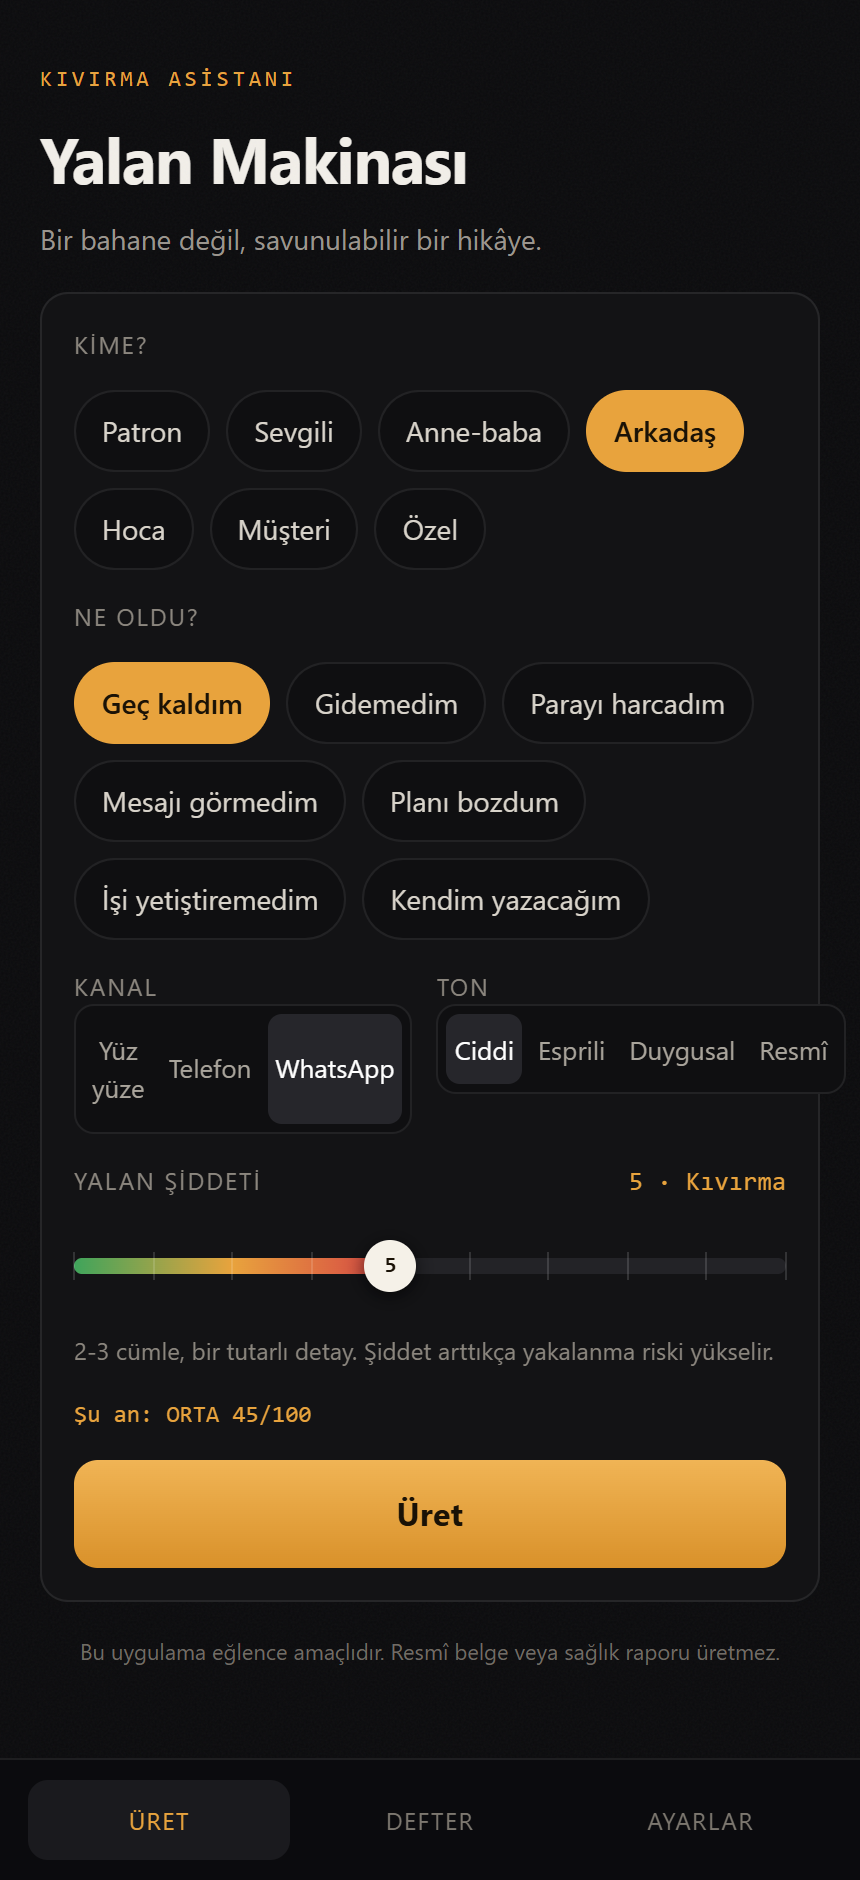
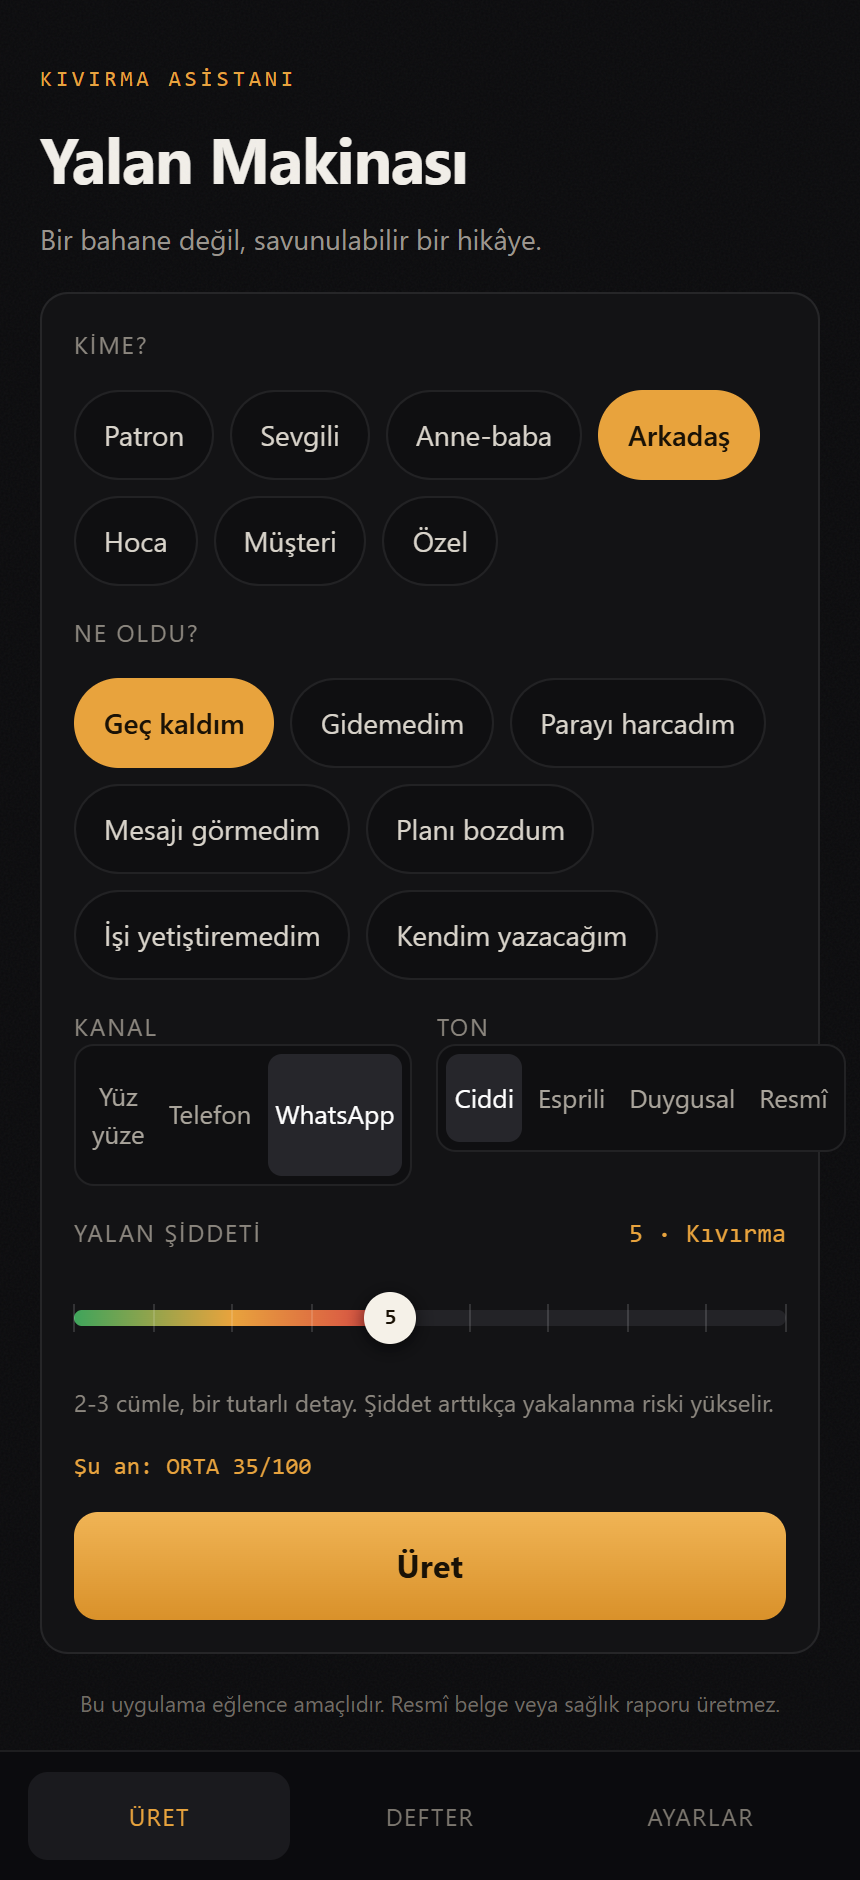
fix: duygusal varyant tek detay (spec 10.2) + onizleme gorselleri

diff --git a/tests/engine/compose.test.ts b/tests/engine/compose.test.ts
@@ -34,6 +34,20 @@ describe('compose', () => {
     }
   });
 
+  it('duygusal strateji tek detay kullanır (spec §10.2)', () => {
+    const drafts = compose({ ...base, intensity: 10 });
+    const duygusal = drafts.find((d) => d.strategy === 'duygusal')!;
+    expect(duygusal.detailTags).toHaveLength(1);
+  });
+
+  it('detaylı ve duygusal varyantlar aynı detayları tekrarlamaz', () => {
+    const drafts = compose({ ...base, intensity: 10 });
+    const detayli = drafts.find((d) => d.strategy === 'detayli')!;
+    const duygusal = drafts.find((d) => d.strategy === 'duygusal')!;
+    expect(duygusal.detailTags.every((t) => !detayli.detailTags.includes(t)) || duygusal.text !== detayli.text).toBe(true);
+    expect(detayli.text).not.toBe(duygusal.text);
+  });
+
   it('detay sayısı şiddetle artar ve 3 ile sınırlıdır', () => {
     expect(compose({ ...base, intensity: 1 })[1]!.detailTags).toHaveLength(0);
     expect(compose({ ...base, intensity: 6 })[1]!.detailTags).toHaveLength(2);

diff --git a/src/engine/compose.ts b/src/engine/compose.ts
@@ -70,7 +70,8 @@ function composeOne(bank: Bank, input: ComposeInput, strategy: Strategy): Varian
 
   const custom = input.situation === 'ozel' ? customSentence(input.situationCustom) : null;
   const opening = custom ?? pickOpening(bank, input.style, rng);
-  const count = strategy === 'sade' ? 0 : detailCountFor(input.intensity);
+  // spec §10.2: sade = detay yok, duygusal = tek detay, detaylı = şiddete göre 1-3 detay
+  const count = strategy === 'sade' ? 0 : strategy === 'duygusal' ? Math.min(1, detailCountFor(input.intensity)) : detailCountFor(input.intensity);
   const details = pickDetails(bank, count, rng);
   const kind: CloserKind = strategy === 'sade' ? 'kisa' : strategy === 'duygusal' ? 'empati' : 'normal';
   const closer = pickCloser(bank, input.style, kind, rng);
